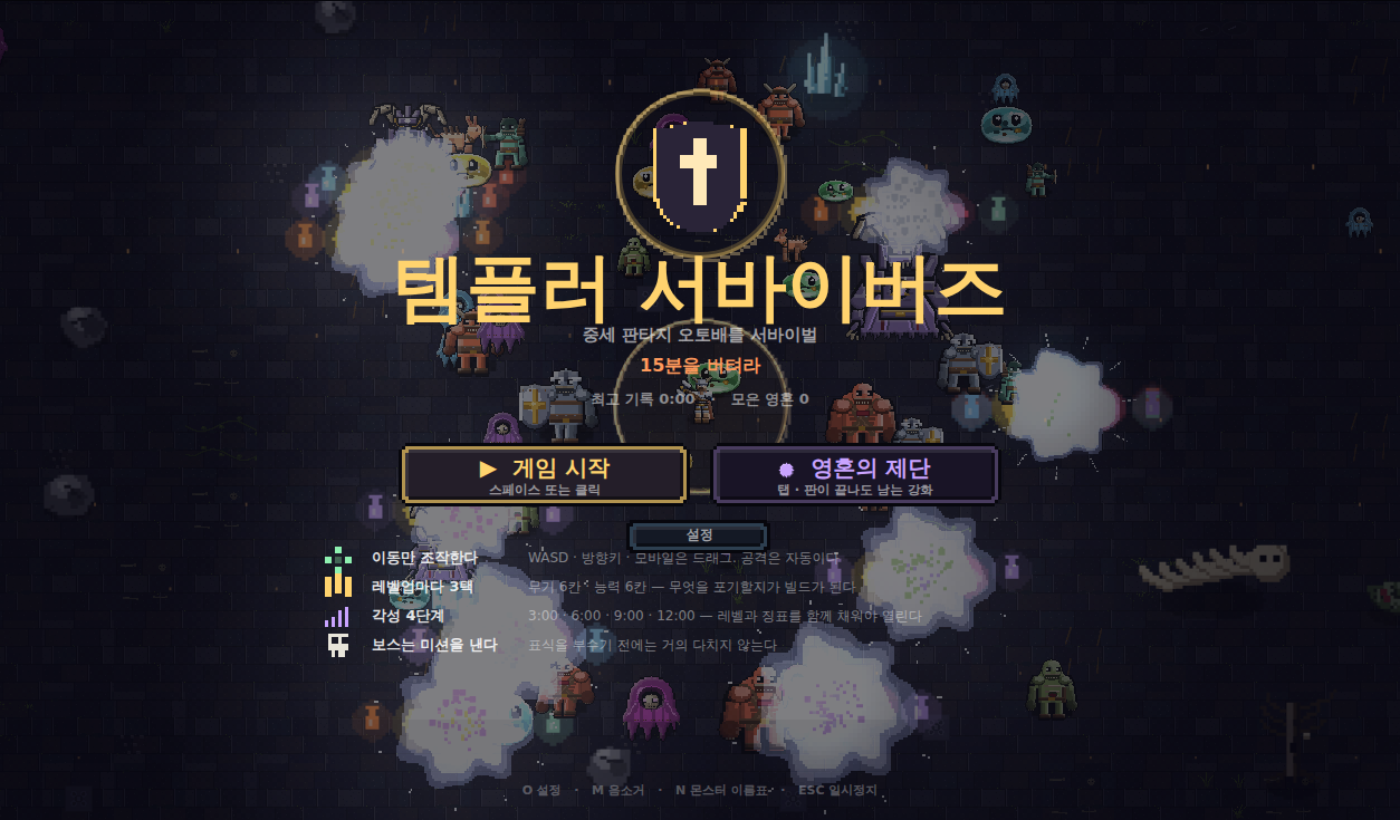
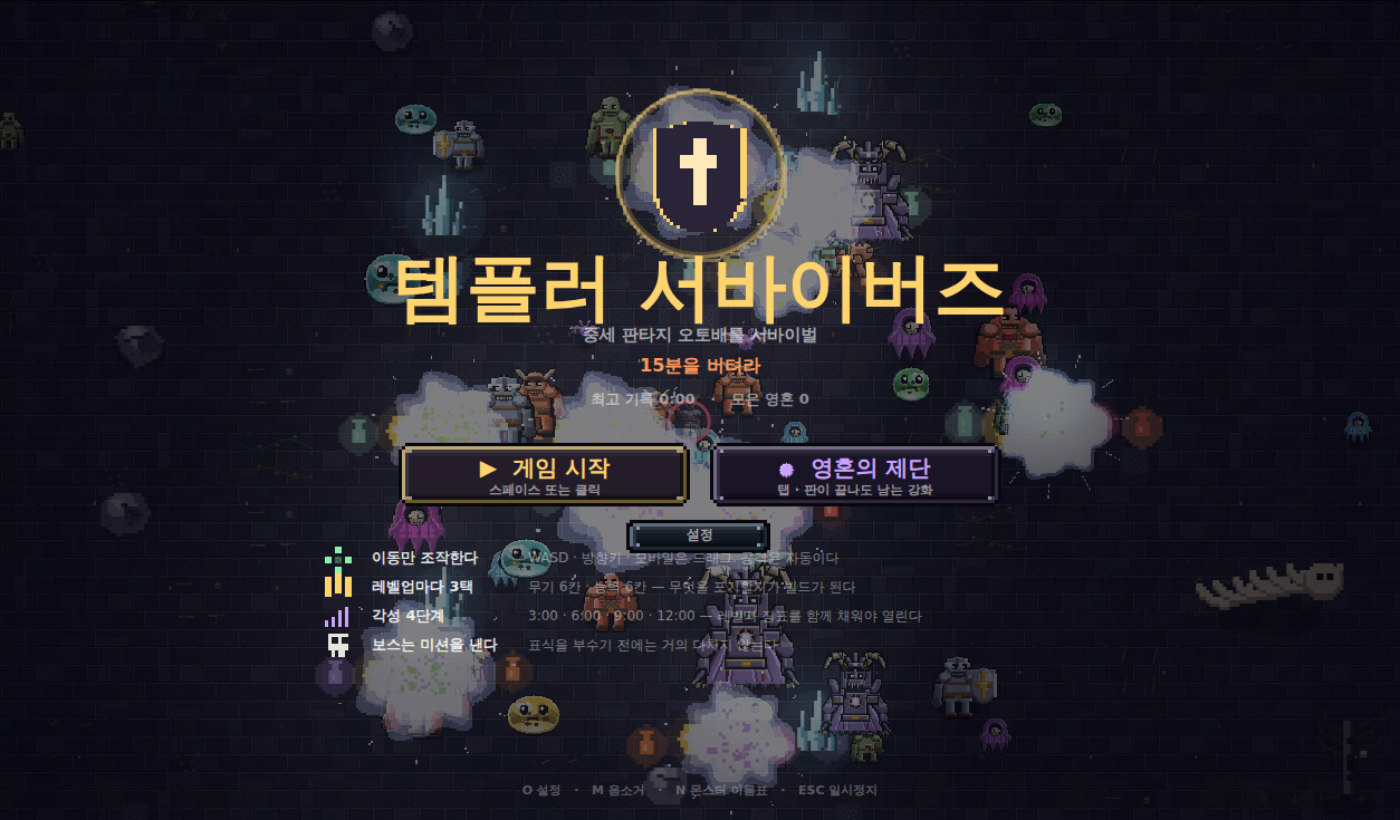
UI 를 재질로 다시 칠한다 — 크기는 1픽셀도 안 건드리고
화면의 모든 칸이 쓰는 panel() 에 들어간 색은 다섯이었다 — 바깥 검은 테 ·
상태색 테 · 안쪽 판 · 광 한 줄 · 그늘 한 줄.

여기서 한 번 크게 틀렸다. 처음엔 테를 두 칸에서 네 칸으로 두껍게 만들어 색을
늘렸는데, 제단 줄 아래의 진행 막대가 테에 잘렸다. 화면 구성 요소의 자리는
panel() 바깥에 박혀 있어서, 액자가 자리를 먹으면 그걸 기준으로 잡아 둔 좌표가
전부 어긋난다. UI 부품은 색을 늘려도 크기를 바꾸면 안 된다.

그래서 같은 두 칸 안에서 색을 늘렸다.
 · 테에 경사 — 위·왼쪽은 밝게, 아래·오른쪽은 어둡게. 반투명이라 상태색이
   무엇이든 통하고 자리를 하나도 안 먹는다
 · 네 귀퉁이의 못 — 액자가 '벽에 박혀 있다'가 되려면 고정된 자리가 보여야 한다
 · 안쪽 판의 두 단 광·두 단 그늘 — 한 단이면 선이고 두 단이면 두께다
색 다섯에서 열하나가 됐고 크기는 그대로다.

막대는 넷에서 아홉으로. 앞머리(선두의 밝은 한 칸)가 특히 중요하다 —
그게 있어야 '차오르는 중'으로 읽힌다. 칸(pxChip)에도 같은 경사를 넣었다.

메뉴 배경의 위아래 어둠은 같은 색 띠 열 장을 겹친 것이었다(결과는 검정 하나).
띠마다 색을 바꾸고 좌우도 눌렀다. 불티는 마흔 개가 전부 같은 주황이었는데,
불티는 올라가면서 식으므로 5단계로 갈랐다 — 갓 올라온 것은 희고 위쪽은 붉다.
차갑게 떠도는 푸른 먼지를 섞어 공기에 깊이를 줬다.

Claude-Session: https://claude.ai/code/session_01Lk8ZeD5vbnXzdEzvLkpny8

diff --git a/game/index.html b/game/index.html
@@ -7226,15 +7226,31 @@ function drawTouchControls() {
 /* 막대 하나 — 체력 · 직업 자원. 예전에는 fillRect 두 번이라 종이처럼 납작했다.
    틀을 두르고 채움의 윗줄만 밝게 하면 같은 값으로 두께가 생긴다.
    빛은 위에서 온다 — 스프라이트·지형·이펙트와 같은 규칙이다. */
+/* 막대. 예전에는 몸통 한 색에 윗줄 한 색, 그리고 검은 홈뿐이었다 — 넷.
+   막대는 화면에서 늘 보이는 것이라 여기가 밋밋하면 UI 전체가 밋밋해 보인다.
+   홈 둘 · 채움 넷 · 앞머리 하나로 아홉 단계를 쓴다.
+   앞머리(선두의 밝은 한 칸)가 특히 중요하다 — 그게 있어야 '차오르는 중'으로 읽힌다. */
 function pxBar(x, y, w, h, f, color, track) {
   pxChip(x, y, w, h, track || "rgba(0,0,0,.62)", "rgba(255,255,255,.13)", 4);
+  ctx.fillStyle = "rgba(0,0,0,.4)";                            // 홈 안쪽의 깊은 그늘
+  ctx.beginPath(); pxR(x + PIX, y + PIX, w - PIX * 2, PIX); ctx.fill();
   const iw = Math.max(0, (w - PIX * 2) * clamp(f, 0, 1));
   if (iw < PIX) return;
   const pal = pxPal(color);
-  ctx.fillStyle = pal[2];
+  ctx.fillStyle = pal[2];                                      // 몸통
   ctx.beginPath(); pxR(x + PIX, y + PIX, iw, h - PIX * 2); ctx.fill();
-  ctx.fillStyle = pal[1];
+  ctx.fillStyle = pal[1];                                      // 위쪽 밝은 면
   ctx.beginPath(); pxR(x + PIX, y + PIX, iw, PIX); ctx.fill();
+  ctx.fillStyle = pal[0];                                      // 그 위 한 줄의 광
+  ctx.beginPath(); pxR(x + PIX, y + PIX, iw, Math.min(PIX, h / 4)); ctx.fill();
+  ctx.globalAlpha = .3;
+  ctx.fillStyle = "#000";                                      // 아래쪽 그늘
+  ctx.beginPath(); pxR(x + PIX, y + h - PIX * 2, iw, PIX); ctx.fill();
+  ctx.globalAlpha = 1;
+  if (iw >= PIX * 2 && f < .995) {                             // 앞머리 — 차오르는 중이라는 표시
+    ctx.fillStyle = pal[0];
+    ctx.beginPath(); pxR(x + PIX + iw - PIX, y + PIX, PIX, h - PIX * 2); ctx.fill();
+  }
 }
 
 /* 작은 칸 — 배지 · 조합 줄 · HUD 막대 · 슬롯 · 미니맵 테. panel() 의 축소판이다.
@@ -7259,9 +7275,25 @@ function pxChip(x, y, w, h, fill, stroke, r) {
   if (stroke) {
     ctx.fillStyle = stroke;
     ctx.beginPath(); pxChipPath(x, y, w, h, r); ctx.fill();
+    /* 테에 경사. panel() 과 같은 규칙이다 — 위·왼쪽은 밝고 아래·오른쪽은 어둡다.
+       반투명으로 덮으므로 테 색이 무엇이든 통하고, 자리를 하나도 안 먹는다.
+       화면에 이 칸이 수십 개라 여기 한 줄이 UI 전체의 재질을 정한다. */
+    const co = (r || 6) - P;
+    ctx.fillStyle = "rgba(255,255,255,.16)";
+    ctx.beginPath();
+    ctx.rect(x + co, y, w - co * 2, P);
+    ctx.rect(x, y + co, P, h - co * 2);
+    ctx.fill();
+    ctx.fillStyle = "rgba(0,0,0,.3)";
+    ctx.beginPath();
+    ctx.rect(x + co, y + h - P, w - co * 2, P);
+    ctx.rect(x + w - P, y + co, P, h - co * 2);
+    ctx.fill();
     if (fill) {
       ctx.fillStyle = fill;
-      ctx.beginPath(); pxChipPath(x + P, y + P, w - P * 2, h - P * 2, (r || 6) - P); ctx.fill();
+      ctx.beginPath(); pxChipPath(x + P, y + P, w - P * 2, h - P * 2, co); ctx.fill();
+      ctx.fillStyle = "rgba(0,0,0,.22)";                  // 안쪽 위의 그늘 — 파인 것처럼
+      ctx.beginPath(); ctx.rect(x + P + co, y + P, w - P * 2 - co * 2, P); ctx.fill();
     }
   } else if (fill) {
     ctx.fillStyle = fill;
@@ -7291,23 +7323,60 @@ function panel(x, y, w, h, r = 14, fill = "rgba(12,12,22,.92)", stroke = "rgba(2
     }
     ctx.rect(xx, yy + c * P, ww, hh - c * 2 * P);
   };
+  /* 액자에 색을 늘리되 **크기는 건드리지 않는다.**
+
+     처음엔 테를 두 칸에서 네 칸으로 두껍게 만들었다. 색은 늘었는데 안쪽이 두 칸씩
+     줄어서, 제단 줄 아래의 진행 막대가 테에 잘렸다. 화면 구성 요소의 자리는
+     이 함수 바깥에 박혀 있으므로 액자가 자리를 먹으면 안 된다.
+
+     그래서 같은 두 칸 안에서 색을 늘린다 —
+     상태색 테에 경사를 준다(위·왼쪽은 밝게, 아래·오른쪽은 어둡게).
+     반투명으로 덮으므로 상태색이 무엇이든 통한다. 여기에 네 귀퉁이의 못과
+     안쪽 판의 두 단 광·두 단 그늘이 붙어 색 열하나가 된다. */
   ctx.fillStyle = "#07070d";                                   // 바깥 테
   ctx.beginPath(); shape(x0, y0, w0, h0, cut); ctx.fill();
   ctx.fillStyle = stroke;                                      // 상태색 테
-  ctx.beginPath(); shape(x0 + P, y0 + P, w0 - P * 2, h0 - P * 2, Math.max(1, cut - 1)); ctx.fill();
+  const bc = Math.max(1, cut - 1);
+  ctx.beginPath(); shape(x0 + P, y0 + P, w0 - P * 2, h0 - P * 2, bc); ctx.fill();
+  // 테의 경사 — 금속이라면 위가 밝고 아래가 어둡다
+  const bx = x0 + P, by = y0 + P, bw = w0 - P * 2, bh = h0 - P * 2, bo = bc * P;
+  ctx.fillStyle = "rgba(255,255,255,.24)";
+  ctx.beginPath();
+  ctx.rect(bx + bo, by, bw - bo * 2, P);
+  ctx.rect(bx, by + bo, P, bh - bo * 2);
+  ctx.fill();
+  ctx.fillStyle = "rgba(0,0,0,.38)";
+  ctx.beginPath();
+  ctx.rect(bx + bo, by + bh - P, bw - bo * 2, P);
+  ctx.rect(bx + bw - P, by + bo, P, bh - bo * 2);
+  ctx.fill();
+
   ctx.fillStyle = fill;                                        // 안쪽 판
-  ctx.beginPath(); shape(x0 + P * 2, y0 + P * 2, w0 - P * 4, h0 - P * 4, Math.max(1, cut - 1)); ctx.fill();
+  ctx.beginPath(); shape(x0 + P * 2, y0 + P * 2, w0 - P * 4, h0 - P * 4, bc); ctx.fill();
   const ix = x0 + P * 2, iy = y0 + P * 2, iw = w0 - P * 4, ih = h0 - P * 4;
-  const ic = Math.max(1, cut - 1) * P;
-  ctx.fillStyle = "rgba(255,255,255,.09)";                     // 위·왼쪽 광
+  const ic = bc * P;
+  ctx.fillStyle = "rgba(255,255,255,.10)";                     // 위·왼쪽 광
   ctx.beginPath();
   ctx.rect(ix + ic, iy, iw - ic * 2, P);
   ctx.rect(ix, iy + ic, P, ih - ic * 2);
   ctx.fill();
-  ctx.fillStyle = "rgba(0,0,0,.42)";                           // 아래·오른쪽 그늘
+  ctx.fillStyle = "rgba(255,255,255,.04)";                     // 그 아래 한 단 — 두께가 생긴다
+  ctx.beginPath(); ctx.rect(ix + ic, iy + P, iw - ic * 2, P); ctx.fill();
+  ctx.fillStyle = "rgba(0,0,0,.46)";                           // 아래·오른쪽 그늘
   ctx.beginPath();
   ctx.rect(ix + ic, iy + ih - P, iw - ic * 2, P);
   ctx.rect(ix + iw - P, iy + ic, P, ih - ic * 2);
+  ctx.fill();
+  ctx.fillStyle = "rgba(0,0,0,.2)";
+  ctx.beginPath(); ctx.rect(ix + ic, iy + ih - P * 2, iw - ic * 2, P); ctx.fill();
+
+  /* 네 귀퉁이의 못. 액자가 '벽에 박혀 있다'가 되려면 고정된 자리가 보여야 한다.
+     상태색 테 위에 찍으므로 안쪽 자리를 먹지 않는다. */
+  const nd = bo + P;
+  ctx.fillStyle = "#8d94a8";
+  ctx.beginPath();
+  for (const [nx, ny] of [[nd, P], [bw - nd - P, P], [nd, bh - P * 2], [bw - nd - P, bh - P * 2]])
+    ctx.rect(bx + nx, by + ny, P, P);
   ctx.fill();
 }
 const inRect = (mx, my, x, y, w, h) => mx >= x && mx <= x + w && my >= y && my <= y + h;
@@ -9158,22 +9227,46 @@ function menuScrim(a) {
   const t = Game.introT;
   ctx.fillStyle = "rgba(7,7,13," + a + ")";
   ctx.fillRect(0, 0, W, H);
-  // 위아래를 조금 더 눌러 글자가 앉을 자리를 만든다 (그라디언트 대신 띠로)
+  /* 위아래를 눌러 글자가 앉을 자리를 만든다.
+
+     예전에는 같은 색 띠 열 장을 겹쳐 쌓기만 했다 — 결과는 검정 하나였다.
+     띠마다 색을 바꾸면 같은 어둠이라도 '식은 어둠'과 '푸른 어둠'이 갈린다.
+     그라디언트를 안 쓰는 이유는 여전히 같다 — 이 화면만 매끄러우면 재질이 어긋난다. */
+  const HAZE = ["#05050a", "#070714", "#0a0a1a", "#0c0c1e"];
   for (let i = 0; i < 10; i++) {
     ctx.globalAlpha = .055;
-    ctx.fillStyle = "#05050a";
+    ctx.fillStyle = HAZE[Math.min(3, Math.floor(i / 3))];
     ctx.fillRect(0, i * 9, W, 9);
     ctx.fillRect(0, H - 90 + i * 9, W, 9);
   }
+  // 좌우도 살짝 — 네 변이 다 눌려야 화면 가운데로 눈이 모인다
+  for (let i = 0; i < 8; i++) {
+    ctx.globalAlpha = .04;
+    ctx.fillStyle = HAZE[Math.min(3, Math.floor(i / 2))];
+    ctx.fillRect(i * 10, 0, 10, H);
+    ctx.fillRect(W - 80 + i * 10, 0, 10, H);
+  }
   ctx.globalAlpha = 1;
-  // 불티
-  for (let i = 0; i < 40; i++) {
+  /* 불티. 예전에는 마흔 개가 전부 같은 주황 한 색이었다 —
+     불티는 올라가면서 식는다. 갓 올라온 것은 희고, 중간이 주황이고, 위쪽은 붉게 식는다.
+     여기에 차갑게 떠도는 먼지를 섞으면 공기에 깊이가 생긴다. */
+  const EMBER = ["#fff0c8", "#ffd9a0", "#ffb35c", "#d9762f", "#8f3f1c"];
+  for (let i = 0; i < 46; i++) {
     const p = (i * 97.3) % 1, sp = 14 + p * 30;
-    const yy = H - ((t * sp + p * H) % (H + 60)) + 30;
+    const prog = ((t * sp + p * H) % (H + 60)) / (H + 60);      // 0 = 갓 올라옴
+    const yy = H - prog * (H + 60) + 30;
     const xx = (i * 137.5) % W + Math.sin(t * .7 + i) * 14;
-    ctx.globalAlpha = .10 + p * .2;
-    ctx.fillStyle = "#ffb35c";
+    ctx.globalAlpha = (.10 + p * .2) * (1 - prog * .5);
+    ctx.fillStyle = EMBER[Math.min(4, Math.floor(prog * 5))];
     ctx.fillRect(xx, yy, 2, 2 + p * 3);
+  }
+  for (let i = 0; i < 18; i++) {                                 // 차갑게 떠도는 먼지
+    const p = (i * 61.7) % 1;
+    const yy = (t * (4 + p * 7) + p * H) % (H + 40) - 20;
+    const xx = (i * 211.3) % W + Math.sin(t * .35 + i * 2) * 26;
+    ctx.globalAlpha = .05 + p * .07;
+    ctx.fillStyle = i % 3 ? "#7f8ec4" : "#b9c4e6";
+    ctx.fillRect(xx, yy, 2, 2);
   }
   ctx.globalAlpha = 1;
 }

diff --git a/docs/art-spec.md b/docs/art-spec.md
@@ -1769,3 +1769,49 @@ function iconCell(rows, cell) { return Math.max(1, Math.round(cell * 7 / rows[0]
 - **등불** — 무쇠 기둥에 흘러내린 녹, 지붕의 금테, 유리를 무는 창살, 받침에 낀 이끼
 - **기둥·폐허** — 밑동의 이끼와 빗물 자국. 돌 하나만 세우면 '방금 놓인 돌'이고,
   밑에 이끼가 끼면 '오래 서 있던 돌'이 된다 — 색 두 개로 세월이 붙는다
+
+## 40. UI — 액자는 금속이고, 금속은 한 색이 아니다
+
+스프라이트·지형·이펙트를 전부 재질로 다시 칠하고 나니 UI 만 남았다.
+
+화면의 모든 칸(직업 카드 · 레벨업 카드 · 제단 줄 · 설정 줄 · 일시정지 · 결과)이
+`panel()` 하나를 쓰는데, 거기 쓰인 색은 **다섯**이었다 —
+바깥 검은 테 · 상태색 테 · 안쪽 판 · 광 한 줄 · 그늘 한 줄.
+
+### 여기서 한 번 크게 틀렸다
+
+처음엔 테를 두 칸에서 네 칸으로 두껍게 만들어 색을 늘렸다. 색은 늘었는데
+**제단 줄 아래의 진행 막대가 테에 잘렸다.**
+
+화면 구성 요소의 자리는 `panel()` 바깥에 박혀 있다. 액자가 자리를 먹으면
+그걸 기준으로 잡아 둔 모든 좌표가 어긋난다. **UI 부품은 색을 늘려도 크기를 바꾸면 안 된다.**
+
+그래서 같은 두 칸 안에서 색을 늘렸다.
+
+- **테에 경사** — 위·왼쪽은 밝게(`rgba(255,255,255,.24)`), 아래·오른쪽은 어둡게.
+  반투명으로 덮으므로 상태색이 무엇이든 통하고 자리를 하나도 안 먹는다.
+- **네 귀퉁이의 못** — 액자가 '벽에 박혀 있다'가 되려면 고정된 자리가 보여야 한다.
+  상태색 테 위에 찍으므로 안쪽을 침범하지 않는다.
+- **안쪽 판의 두 단 광 · 두 단 그늘** — 한 단이면 선이고, 두 단이면 두께다.
+
+색 다섯에서 **열하나**가 됐고, 크기는 1픽셀도 안 변했다.
+
+### 막대와 칸
+
+**막대**(`pxBar`)는 몸통 한 색에 윗줄 한 색, 검은 홈 — 넷이었다.
+화면에서 늘 보이는 것이라 여기가 밋밋하면 UI 전체가 밋밋해 보인다.
+홈 둘 · 채움 넷 · **앞머리 하나**로 아홉 단계를 쓴다.
+앞머리(선두의 밝은 한 칸)가 특히 중요하다 — 그게 있어야 '차오르는 중'으로 읽힌다.
+
+**칸**(`pxChip` — 배지 · 조합 줄 · 슬롯 · 미니맵 테)에도 같은 경사를 넣었다.
+화면에 이 칸이 수십 개라 여기 한 줄이 UI 전체의 재질을 정한다.
+
+### 메뉴 배경
+
+`menuScrim` 의 위아래 어둠은 **같은 색 띠 열 장을 겹쳐 쌓은 것**이었다 — 결과는 검정 하나다.
+띠마다 색을 바꾸니 같은 어둠이라도 '식은 어둠'과 '푸른 어둠'이 갈린다. 좌우도 눌러
+네 변이 다 어두워지게 했다 — 그래야 눈이 화면 가운데로 모인다.
+
+불티는 마흔 개가 전부 같은 주황이었다. **불티는 올라가면서 식는다** —
+갓 올라온 것은 희고, 중간이 주황이고, 위쪽은 붉게 식는다(5단계).
+여기에 차갑게 떠도는 푸른 먼지를 섞으면 공기에 깊이가 생긴다.
